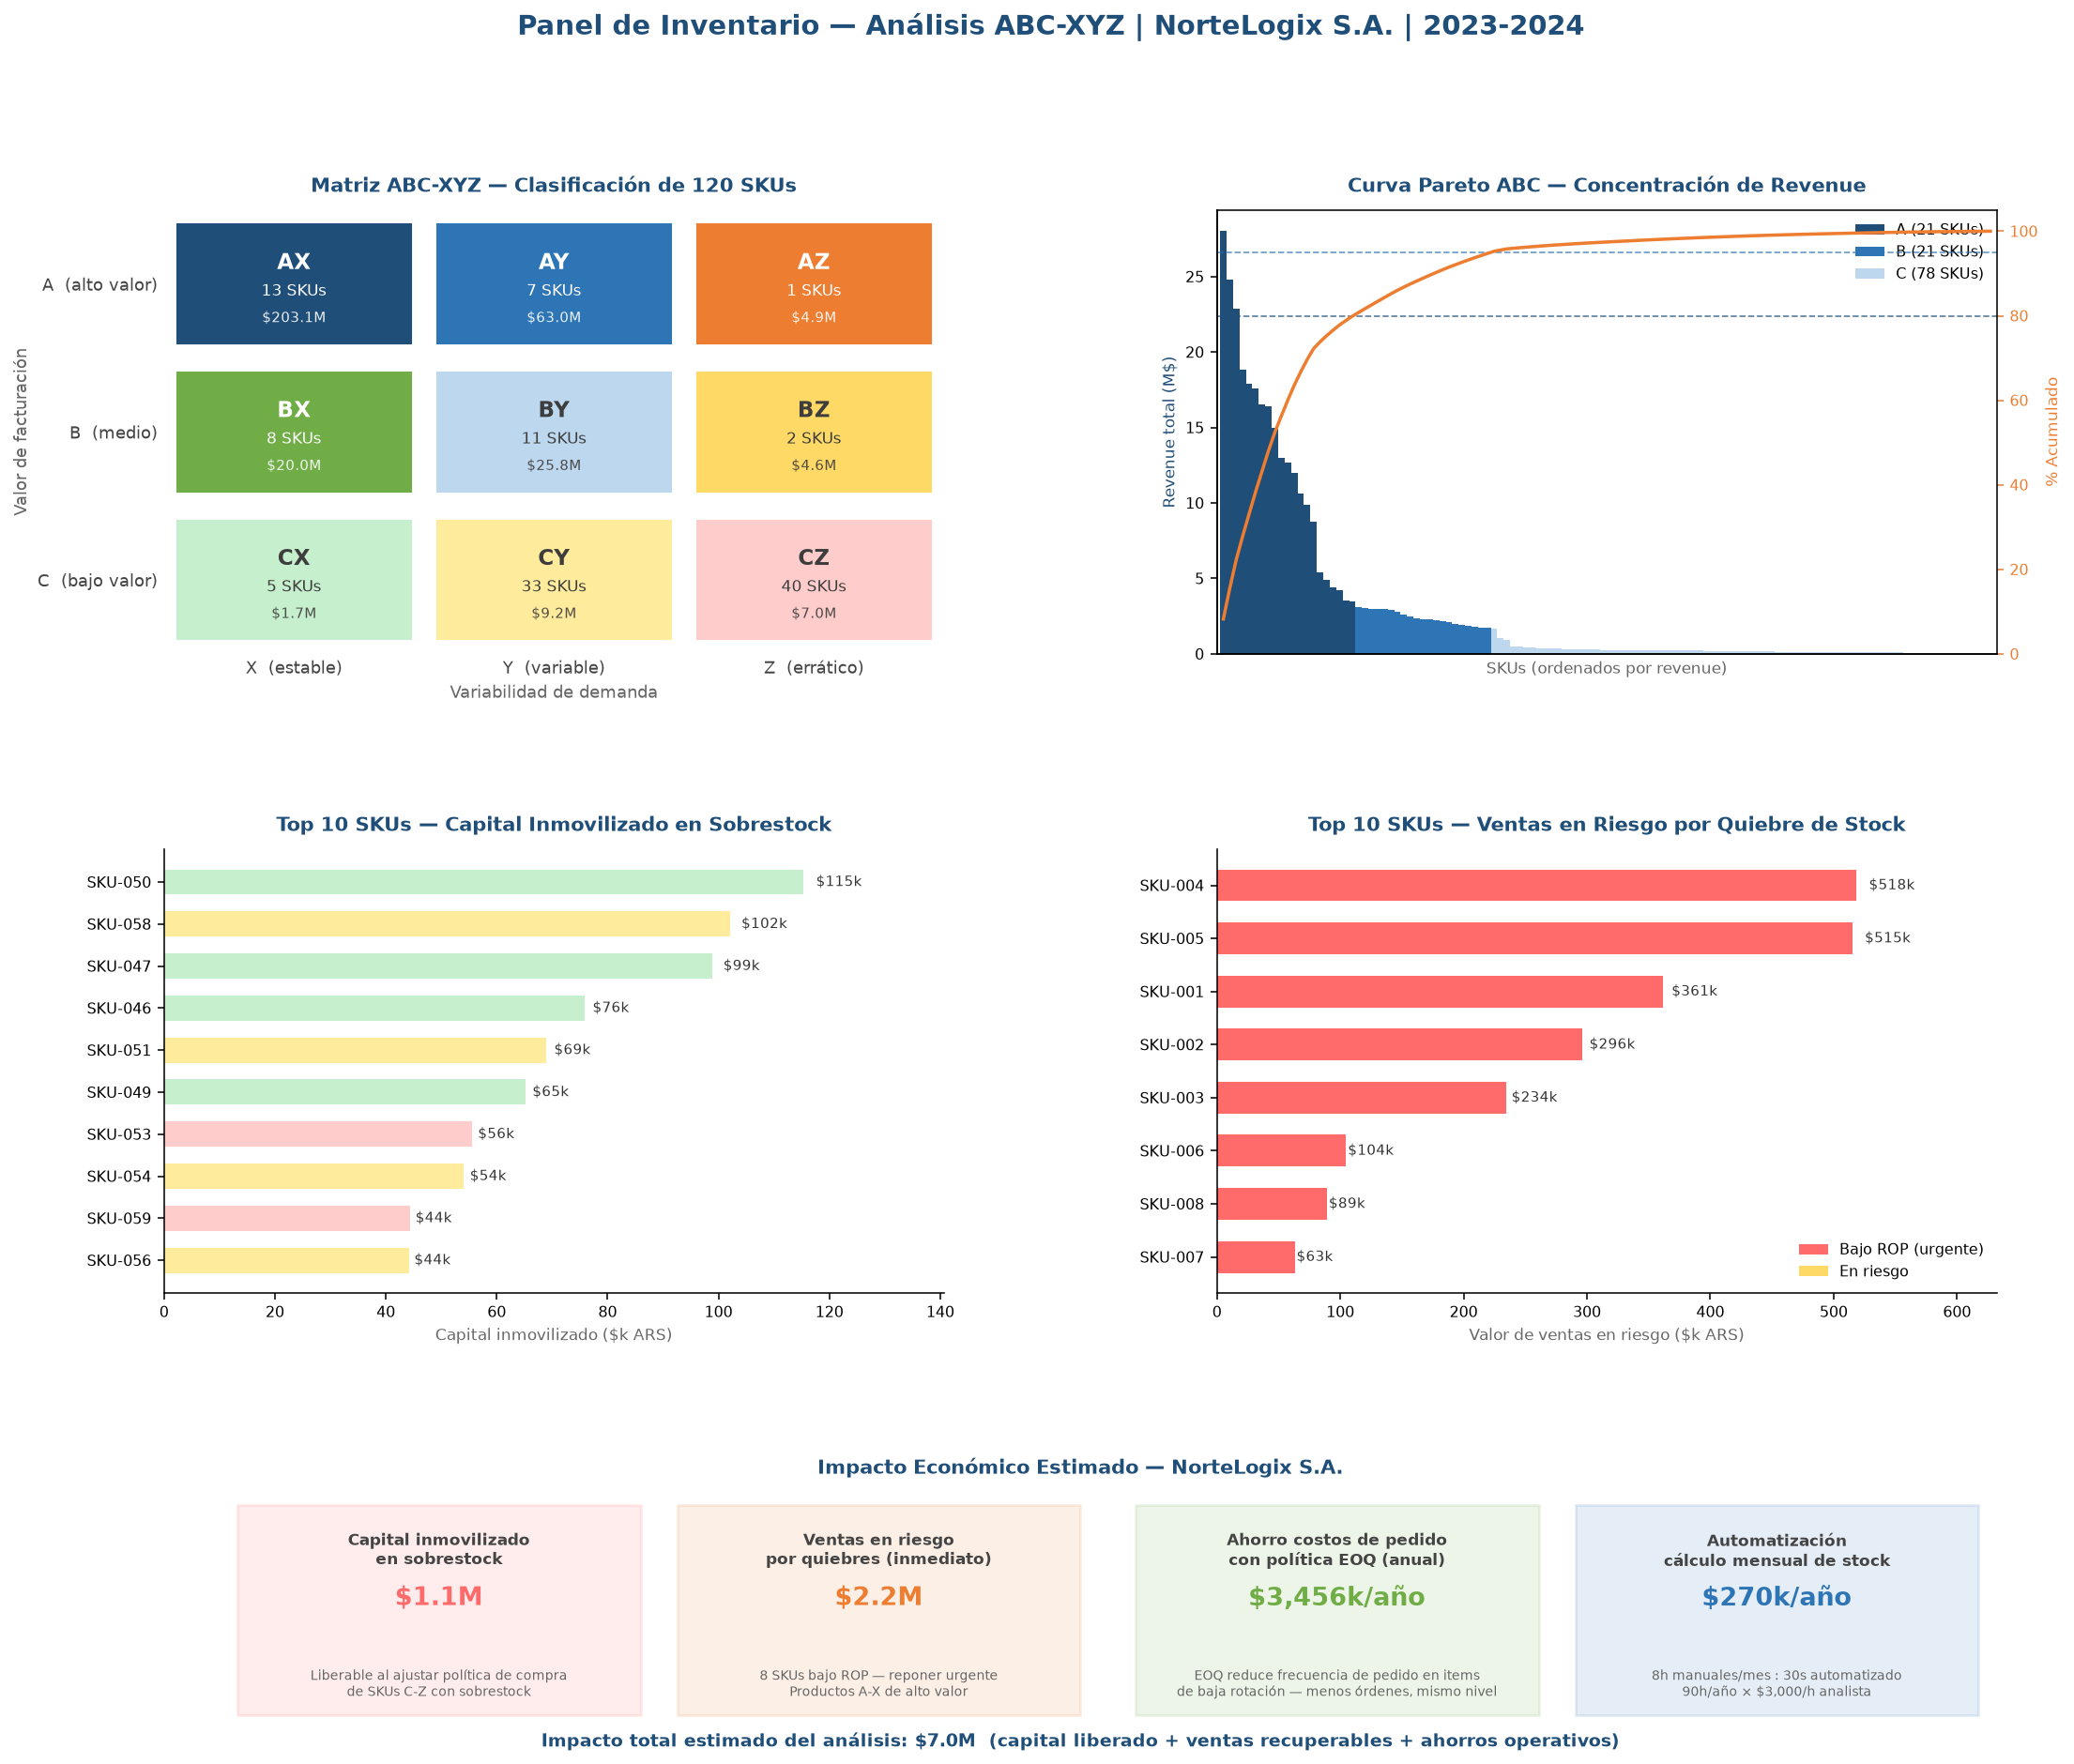
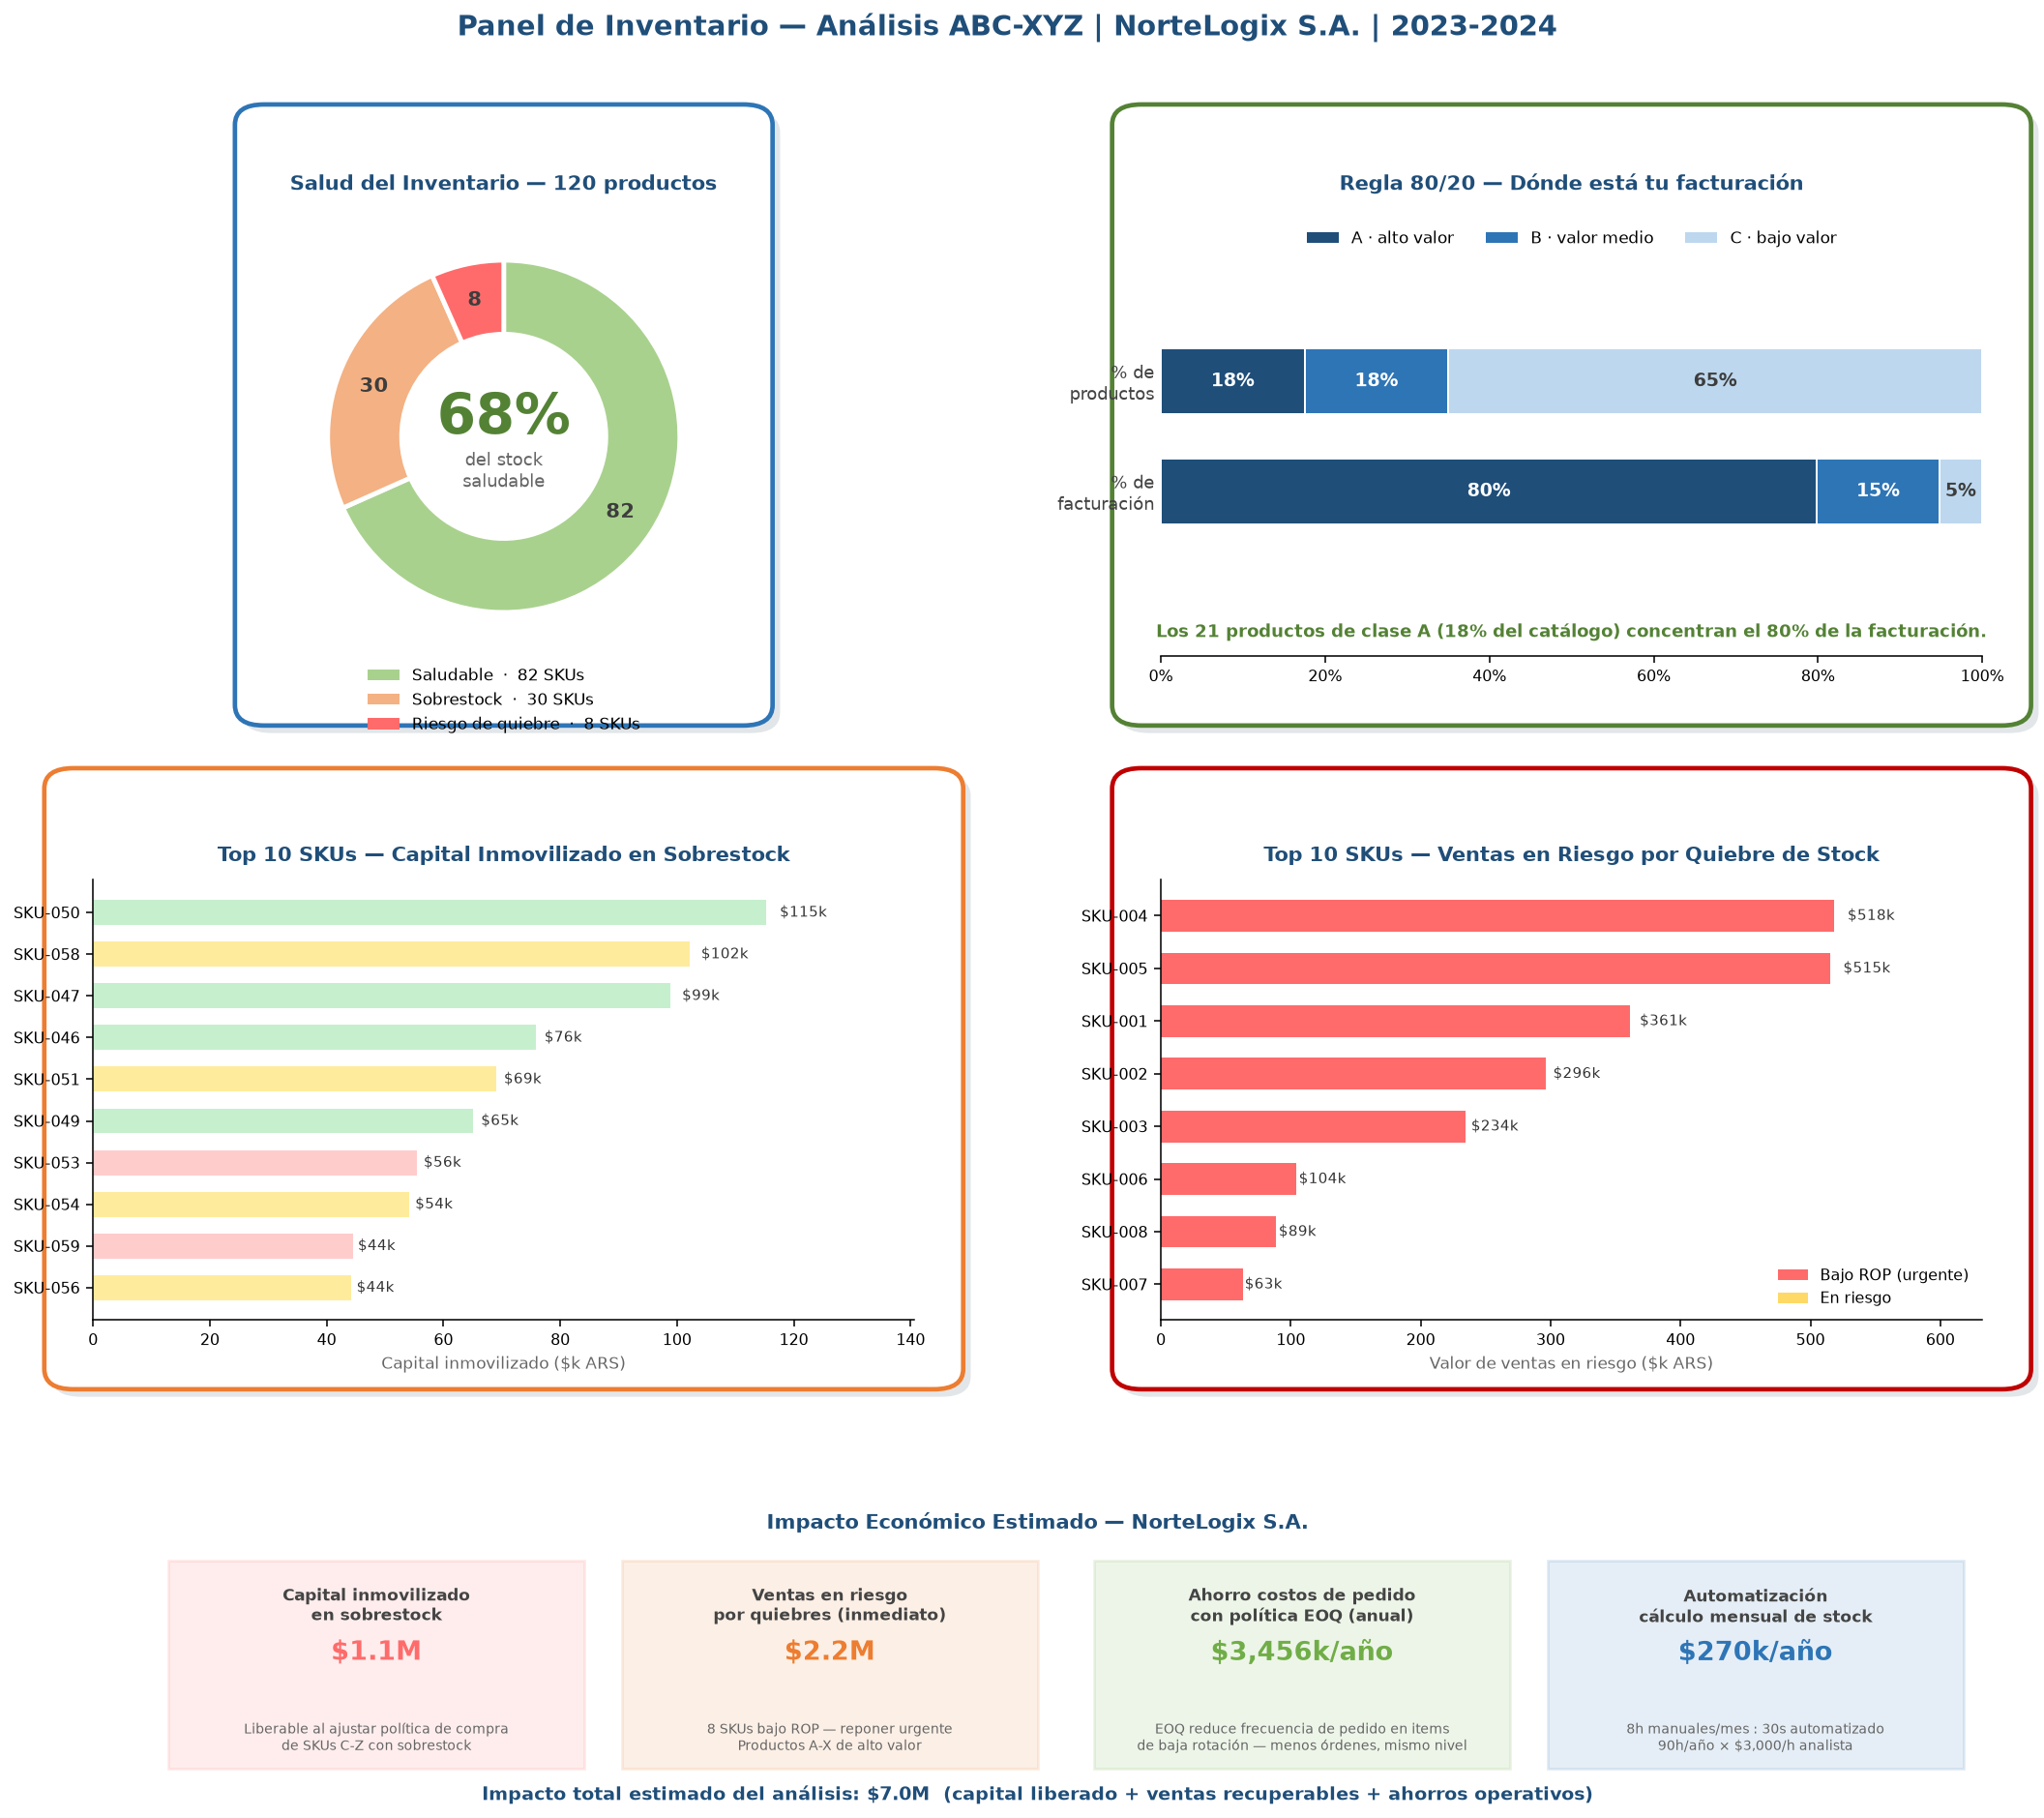
feat(abcxyz): rediseña dashboard — dónut de salud + regla 80/20 en lugar de matriz y Pareto
- Reemplaza la matriz ABC-XYZ y la curva de Pareto por 2 paneles gerenciales:
  dónut de salud del inventario (semáforo) y barras 80/20 (productos vs facturación)
- Marcos tipo tarjeta con borde de color semántico y sombra para delimitar cada panel
- Colores claros para lo positivo, naranja/rojo para lo negativo

diff --git a/proyectos/python/optimizacion-inventario-abcxyz/src/analisis_abcxyz.py b/proyectos/python/optimizacion-inventario-abcxyz/src/analisis_abcxyz.py
@@ -17,6 +17,8 @@ import matplotlib
 matplotlib.use("Agg")
 import matplotlib.pyplot as plt
 import matplotlib.patches as mpatches
+import matplotlib.patheffects as pe
+from matplotlib.patches import FancyBboxPatch
 from matplotlib.gridspec import GridSpec
 from pathlib import Path
 
@@ -175,16 +177,16 @@ def generar_dashboard(df: pd.DataFrame, impacto: dict) -> None:
         fontsize=15, fontweight="bold", color=AZUL_OSC, y=0.98
     )
 
-    gs = GridSpec(3, 2, figure=fig, hspace=0.52, wspace=0.35,
+    gs = GridSpec(3, 2, figure=fig, hspace=0.60, wspace=0.30,
                   height_ratios=[1.3, 1.3, 0.7])
 
-    # -- Panel 1: Matriz ABC-XYZ heatmap --------------------------------------
+    # -- Panel 1: Salud del inventario (dónut semáforo) -----------------------
     ax1 = fig.add_subplot(gs[0, 0])
-    _panel_matrix(ax1, df)
+    _panel_salud(ax1, df)
 
-    # -- Panel 2: Pareto ABC ---------------------------------------------------
+    # -- Panel 2: Regla 80/20 — dónde está la facturación ---------------------
     ax2 = fig.add_subplot(gs[0, 1])
-    _panel_pareto(ax2, df)
+    _panel_8020(ax2, df)
 
     # -- Panel 3: Top 10 sobrestock --------------------------------------------
     ax3 = fig.add_subplot(gs[1, 0])
@@ -198,91 +200,132 @@ def generar_dashboard(df: pd.DataFrame, impacto: dict) -> None:
     ax5 = fig.add_subplot(gs[2, :])
     _panel_kpis(ax5, impacto, df)
 
+    # -- Marcos tipo tarjeta con borde de color semántico ---------------------
+    # (claro/azul = neutro-positivo · naranja = capital atrapado · rojo = urgente)
+    fig.canvas.draw()
+    _marco(fig, ax1, "#2E75B6")   # salud: neutro
+    _marco(fig, ax2, "#548235")   # facturación (dónde está el valor): positivo
+    _marco(fig, ax3, "#ED7D31")   # sobrestock: negativo (capital atrapado)
+    _marco(fig, ax4, "#C00000")   # quiebre: negativo (urgente)
+
     ruta = OUT / "dashboard_inventario.png"
     fig.savefig(ruta, dpi=140, bbox_inches="tight", facecolor="white")
     plt.close(fig)
     print(f"Dashboard guardado: {ruta}")
 
 
-def _panel_matrix(ax, df):
-    abc_cats = ["A", "B", "C"]
-    xyz_cats = ["X", "Y", "Z"]
-
-    ax.set_xlim(-0.5, 2.5)
-    ax.set_ylim(-0.5, 2.5)
-    ax.set_xticks([0, 1, 2])
-    ax.set_xticklabels(["X  (estable)", "Y  (variable)", "Z  (errático)"],
-                       fontsize=9, color="#444444")
-    ax.set_yticks([0, 1, 2])
-    ax.set_yticklabels(["C  (bajo valor)", "B  (medio)", "A  (alto valor)"],
-                       fontsize=9, color="#444444")
-    ax.set_title("Matriz ABC-XYZ — Clasificación de 120 SKUs",
-                 fontsize=11, fontweight="bold", color=AZUL_OSC, pad=10)
-    ax.set_xlabel("Variabilidad de demanda", fontsize=9, color="#666666")
-    ax.set_ylabel("Valor de facturación", fontsize=9, color="#666666")
-    for sp in ax.spines.values():
-        sp.set_visible(False)
-    ax.tick_params(length=0)
-
-    for xi, xy in enumerate(xyz_cats):
-        for yi, ab in enumerate(abc_cats):
-            y_pos  = 2 - yi
-            mask   = (df["abc"] == ab) & (df["xyz"] == xy)
-            n_skus = mask.sum()
-            rev    = df.loc[mask, "revenue_total"].sum()
-            color  = COLORES_MATRIX[(ab, xy)]
-            tc     = "white" if color in TEXTO_OSCURO else "#3D3D3D"
-
-            rect = plt.Rectangle((xi - 0.46, y_pos - 0.42), 0.92, 0.84,
-                                  facecolor=color, edgecolor="white", linewidth=2,
-                                  zorder=2)
-            ax.add_patch(rect)
-            ax.text(xi, y_pos + 0.14, f"{ab}{xy}", ha="center", va="center",
-                    fontsize=12, fontweight="bold", color=tc, zorder=3)
-            ax.text(xi, y_pos - 0.05, f"{n_skus} SKUs", ha="center", va="center",
-                    fontsize=8.5, color=tc, zorder=3)
-            ax.text(xi, y_pos - 0.23, f"${rev/1e6:.1f}M", ha="center", va="center",
-                    fontsize=7.5, color=tc, alpha=0.90, zorder=3)
-
-
-def _panel_pareto(ax, df):
-    pareto = (
-        df[["sku", "revenue_total", "pct_rev", "pct_acum", "abc"]]
-        .sort_values("revenue_total", ascending=False)
-        .reset_index(drop=True)
+def _marco(fig, ax, color, ml=0.020, mr=0.020, mb=0.034, mt=0.055):
+    """Dibuja una tarjeta (fondo blanco, borde de color y sombra) detrás del panel
+    para delimitarlo visualmente. Márgenes en fracción de figura (más arriba para
+    incluir el título del gráfico)."""
+    pos = ax.get_position()
+    x0, y0 = pos.x0 - ml, pos.y0 - mb
+    w, h   = pos.width + ml + mr, pos.height + mb + mt
+    card = FancyBboxPatch(
+        (x0, y0), w, h, transform=fig.transFigure,
+        boxstyle="round,pad=0,rounding_size=0.012",
+        facecolor="white", edgecolor=color, linewidth=2.4,
+        zorder=-1, clip_on=False,
+        mutation_aspect=fig.get_figheight() / fig.get_figwidth(),
     )
-    x    = range(len(pareto))
-    cols = [AZUL_OSC if a == "A" else (AZUL_MED if a == "B" else AZUL_CLAR)
-            for a in pareto["abc"]]
+    card.set_path_effects([pe.withSimplePatchShadow(
+        offset=(4, -4), shadow_rgbFace="#9AA6B2", alpha=0.28)])
+    fig.add_artist(card)
 
-    ax.bar(x, pareto["revenue_total"] / 1e6, color=cols, width=1.0, edgecolor="none")
-    ax2t = ax.twinx()
-    ax2t.plot(x, pareto["pct_acum"] * 100, color=NARANJA, linewidth=1.8, zorder=5)
-    ax2t.axhline(80, color=AZUL_OSC, linestyle="--", linewidth=0.9, alpha=0.7)
-    ax2t.axhline(95, color=AZUL_MED, linestyle="--", linewidth=0.9, alpha=0.7)
-    ax2t.set_ylabel("% Acumulado", fontsize=8.5, color=NARANJA)
-    ax2t.set_ylim(0, 105)
-    ax2t.tick_params(axis="y", colors=NARANJA, labelsize=8)
 
-    ax.set_title("Curva Pareto ABC — Concentración de Revenue",
-                 fontsize=11, fontweight="bold", color=AZUL_OSC, pad=10)
-    ax.set_xlabel("SKUs (ordenados por revenue)", fontsize=8.5, color="#666666")
-    ax.set_ylabel("Revenue total (M$)", fontsize=8.5, color=AZUL_OSC)
-    ax.set_xlim(-1, len(pareto))
-    ax.tick_params(axis="x", labelbottom=False, length=0)
-    ax.tick_params(axis="y", labelsize=8)
-    for sp in ["top", "right"]:
+def _panel_salud(ax, df):
+    """Dónut semáforo: qué proporción de los SKUs está sana vs con problemas.
+    Verde claro = saludable · Naranja = sobrestock · Rojo = riesgo de quiebre."""
+    n_bajo   = int(df["bajo_rop"].sum())
+    n_exceso = int((df["exceso_unidades"] > 0).sum())
+    n_sano   = len(df) - n_bajo - n_exceso
+
+    datos   = [n_sano, n_exceso, n_bajo]
+    labels  = ["Saludable", "Sobrestock", "Riesgo de quiebre"]
+    colores = ["#A9D18E", "#F4B183", "#FF6B6B"]   # verde claro · naranja · rojo
+
+    wedges, _ = ax.pie(
+        datos, colors=colores, startangle=90, counterclock=False,
+        wedgeprops=dict(width=0.42, edgecolor="white", linewidth=2.5),
+    )
+    # Etiqueta de cantidad sobre cada gajo con peso suficiente
+    for w, val in zip(wedges, datos):
+        if val == 0:
+            continue
+        ang = np.deg2rad((w.theta1 + w.theta2) / 2)
+        ax.text(0.79 * np.cos(ang), 0.79 * np.sin(ang), f"{val}",
+                ha="center", va="center", fontsize=11, fontweight="bold", color="#3D3D3D")
+
+    pct_sano = n_sano / len(df) * 100
+    ax.text(0, 0.10, f"{pct_sano:.0f}%", ha="center", va="center",
+            fontsize=30, fontweight="bold", color="#548235")
+    ax.text(0, -0.20, "del stock\nsaludable", ha="center", va="center",
+            fontsize=9.5, color="#666666", multialignment="center")
+
+    ax.set_title("Salud del Inventario — 120 productos",
+                 fontsize=11, fontweight="bold", color=AZUL_OSC, pad=14)
+
+    leyenda = [mpatches.Patch(facecolor=c, label=f"{l}  ·  {n} SKUs")
+               for c, l, n in zip(colores, labels, datos)]
+    ax.legend(handles=leyenda, fontsize=8.5, loc="center",
+              bbox_to_anchor=(0.5, -0.10), ncol=1, frameon=False)
+    ax.set_aspect("equal")
+
+
+def _panel_8020(ax, df):
+    """Regla 80/20 en formato gerencial: dos barras 100% comparando la porción de
+    PRODUCTOS vs la porción de FACTURACIÓN que aporta cada clase A/B/C."""
+    g = (df.groupby("abc")
+           .agg(n=("sku", "count"), rev=("revenue_total", "sum"))
+           .reindex(["A", "B", "C"]))
+    pct_n   = g["n"]   / g["n"].sum()   * 100
+    pct_rev = g["rev"] / g["rev"].sum() * 100
+
+    colores   = {"A": AZUL_OSC, "B": AZUL_MED, "C": AZUL_CLAR}
+    tc_claro  = {"A": "white",  "B": "white",  "C": "#3D3D3D"}
+
+    filas = [(1, pct_n), (0, pct_rev)]
+    for y, serie in filas:
+        izq = 0.0
+        for cls in ["A", "B", "C"]:
+            w = float(serie[cls])
+            ax.barh(y, w, left=izq, color=colores[cls], edgecolor="white",
+                    height=0.6, zorder=2)
+            if w >= 5:
+                ax.text(izq + w / 2, y, f"{w:.0f}%", ha="center", va="center",
+                        fontsize=10, fontweight="bold", color=tc_claro[cls], zorder=3)
+            izq += w
+
+    ax.set_xlim(0, 100)
+    ax.set_ylim(-1.5, 2.5)
+    ax.set_yticks([0, 1])
+    ax.set_yticklabels(["% de\nfacturación", "% de\nproductos"],
+                       fontsize=9.5, color="#444444")
+    ax.xaxis.set_major_formatter(plt.FuncFormatter(lambda v, _: f"{v:.0f}%"))
+    ax.tick_params(axis="x", labelsize=8)
+    ax.set_xticks([0, 20, 40, 60, 80, 100])
+    for sp in ["top", "right", "left"]:
         ax.spines[sp].set_visible(False)
+    ax.tick_params(axis="y", length=0)
 
-    n_a = (pareto["abc"] == "A").sum()
-    n_b = (pareto["abc"] == "B").sum()
+    n_a   = int(g.loc["A", "n"])
+    rev_a = float(pct_rev["A"])
+    ax.set_title("Regla 80/20 — Dónde está tu facturación",
+                 fontsize=11, fontweight="bold", color=AZUL_OSC, pad=14)
+
+    # Leyenda arriba (dentro del gráfico) y conclusión abajo (dentro del gráfico)
     leyenda = [
-        mpatches.Patch(facecolor=AZUL_OSC, label=f"A ({n_a} SKUs)"),
-        mpatches.Patch(facecolor=AZUL_MED, label=f"B ({n_b} SKUs)"),
-        mpatches.Patch(facecolor=AZUL_CLAR, label=f"C ({len(pareto)-n_a-n_b} SKUs)"),
+        mpatches.Patch(facecolor=AZUL_OSC,  label="A · alto valor"),
+        mpatches.Patch(facecolor=AZUL_MED,  label="B · valor medio"),
+        mpatches.Patch(facecolor=AZUL_CLAR, label="C · bajo valor"),
     ]
-    ax.legend(handles=leyenda, fontsize=8, loc="upper right",
-              framealpha=0.8, edgecolor="none")
+    ax.legend(handles=leyenda, fontsize=8.5, loc="upper center",
+              bbox_to_anchor=(0.5, 1.0), ncol=3, frameon=False)
+    ax.text(0.5, 0.055,
+            f"Los {n_a} productos de clase A ({pct_n['A']:.0f}% del catálogo) "
+            f"concentran el {rev_a:.0f}% de la facturación.",
+            transform=ax.transAxes, ha="center", va="center",
+            fontsize=9, color="#548235", fontweight="bold")
 
 
 def _panel_sobrestock(ax, df):